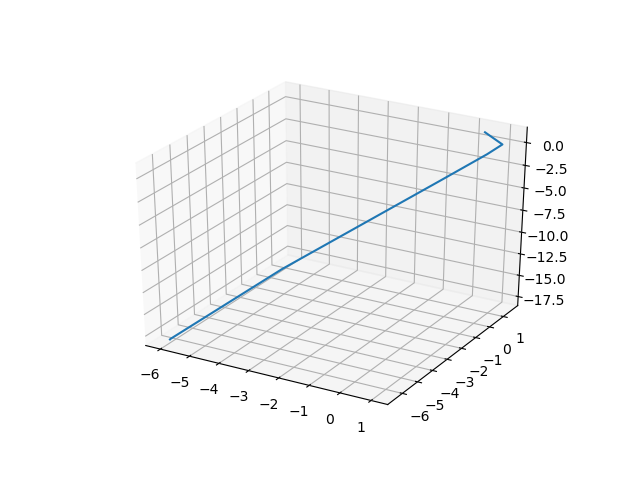
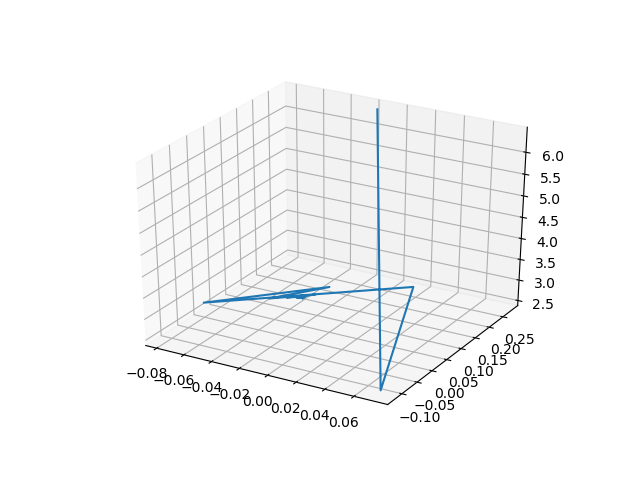
update

Changed region(s): [[0.2188, 0.1875, 0.9062, 0.8125], [0.1875, 0.75, 0.5625, 0.9062], [0.625, 0.6875, 0.8438, 0.875]]

diff --git a/lorenz_rnn.py b/lorenz_rnn.py
@@ -8,7 +8,7 @@ from torch.autograd import Variable
 import torch.optim as optim
 from mpl_toolkits.mplot3d import Axes3D
 INPUT_SIZE = 3
-HIDDEN_SIZE = 256
+HIDDEN_SIZE = 64
 OUTPUT_SIZE = 3
 LR = 0.01
 
@@ -41,10 +41,17 @@ class RnnNet(nn.Module):
                           hidden_size = HIDDEN_SIZE,
                           num_layers = 1,
                           batch_first = True)
+        """
+        self.rnn2 = nn.RNN(input_size = HIDDEN_SIZE,
+                           hidden_size = HIDDEN_SIZE,
+                           num_layers = 1,
+                           batch_first = True)
+        """
         self.linear = nn.Linear(HIDDEN_SIZE, OUTPUT_SIZE)
     def forward(self, x, hidden):
         out, hidden = self.rnn(x,hidden)
         # [1,seq_len, h] => [seq_len, h]
+        # out, hidden = self.rnn2(out1, hidden1)
         out = out.view(-1, HIDDEN_SIZE)
         out = self.linear(out) # [seq_len, h] => [seq_len, 1]
         out = out.unsqueeze(dim=0) #[seq_len, 1] => [1, seq_len, 1]
@@ -55,15 +62,14 @@ model = RnnNet()
 criterion = nn.MSELoss()
 optimizer = optim.Adam(model.parameters(), LR)
 
-hidden = Variable(torch.zeros(1, 1, HIDDEN_SIZE))
-
+hidden = Variable(torch.zeros(1,1,HIDDEN_SIZE))
 inputs = Variable(inputs)
 targets = Variable(targets)
 
 for iter in range(1001):
+    
     output, hidden = model(inputs, hidden)
-    hidden = hidden.detach()
-
+    hidden = hidden.data
     loss = criterion(output, targets)
     model.zero_grad()
     loss.backward()
@@ -74,7 +80,7 @@ for iter in range(1001):
     
 # Give any initial point predict the following points and Visualize the result
 predictions = []
-input_point = inputs[:, 0, :]
+input_point = inputs[:, 30, :]
 for _ in range(inputs.shape[1]):
     input_point = input_point.view(1, 1, 3)
     (pred, hidden) = model(input_point, hidden)
@@ -90,7 +96,7 @@ ax = fig.gca(projection='3d')
 print(predictions.shape)
 ax.plot(predictions[:, 0], predictions[:, 1], predictions[:, 2])
 plt.show()
-plt.savefig("out_256_1001.png")
+plt.savefig("64_rnn.png")
 
 print(states[:10])
 fig1 = plt.figure()

diff --git a/lorenz_lstm.py b/lorenz_lstm.py
@@ -61,13 +61,13 @@ criterion = nn.MSELoss()
 optimizer = optim.Adam(model.parameters(), LR)
 inputs = Variable(inputs)
 targets = Variable(targets)
+hidden = model.init_hidden()
 
 for iter in range(1001):
-    hidden = model.init_hidden()
     output, hidden = model(inputs, hidden)
     loss = criterion(output, targets)
-    optimizer.zero_grad()
-    loss.backward()
+    model.zero_grad()
+    loss.backward(retain_graph = True)
     optimizer.step()
 
     if iter % 100 == 0:
@@ -91,7 +91,7 @@ ax = fig.gca(projection='3d')
 print(predictions.shape)
 ax.plot(predictions[:, 0], predictions[:, 1], predictions[:, 2])
 plt.show()
-plt.savefig("out_64_1001-25_LSTM.png")
+plt.savefig("64_LSTM.png")
 
 print(states[:10])
 fig1 = plt.figure()
